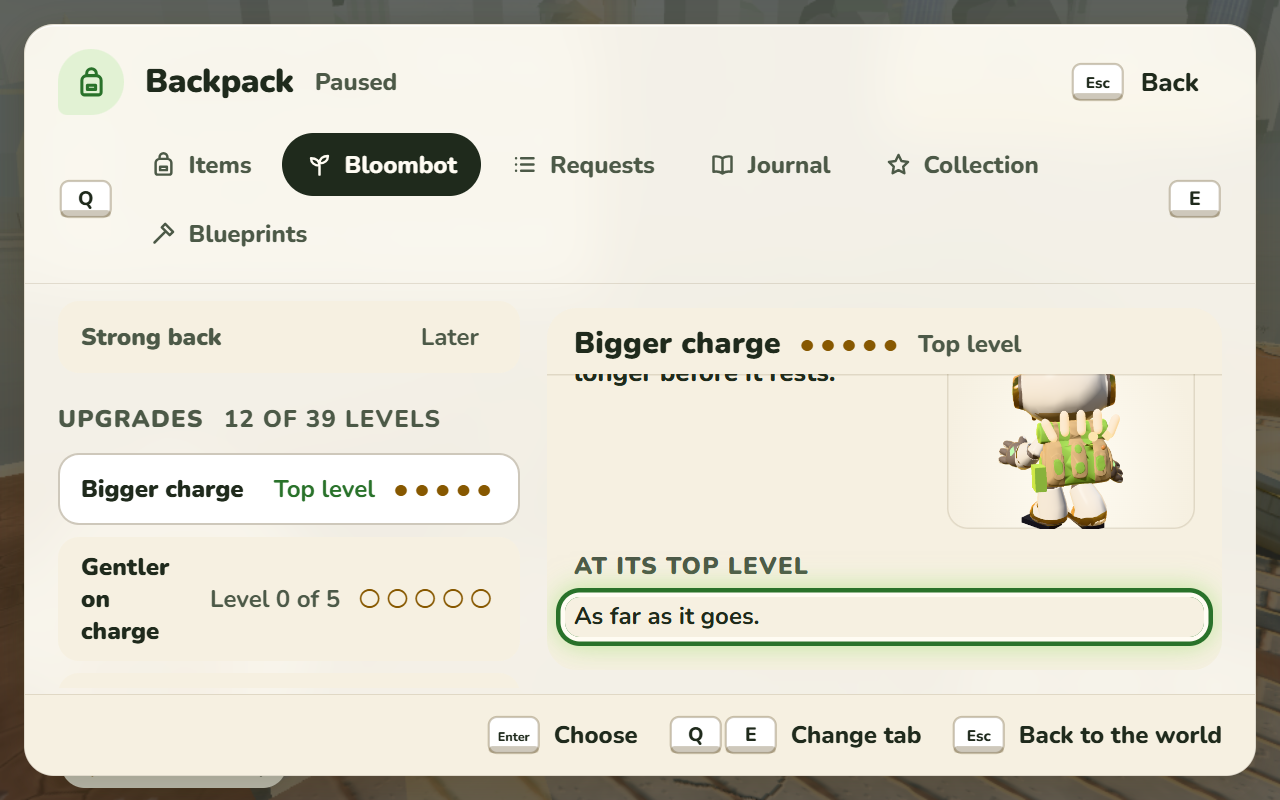
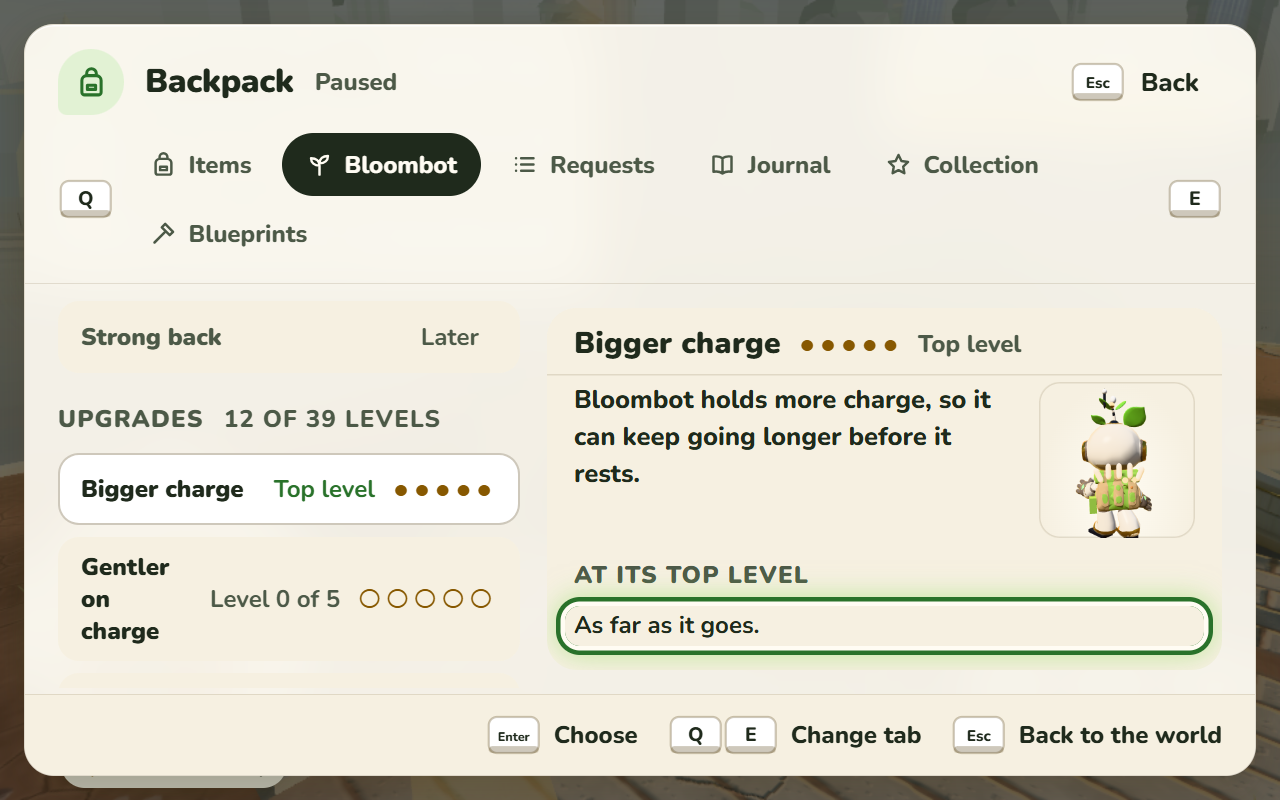
#661: at Deck 150% every row's second heading and its first line show under what it does
In the short layout (the Deck) the view of Bloombot beside what it does is
104px across instead of up to 170, so the second heading (How to get it,
Learned, How to learn it, Where to use it...) and the start of its text show
without a scroll, on rows with Show me where and without.

e2e: every row in focus, at Deck 150%, 1280x720 and 1280x800, shows its
second heading below the head and its first line above the bottom. Shots of a
Learned, a Later and a Next row.

Changed region(s): [[0.4375, 0.6875, 0.9688, 0.8438], [0.4375, 0.4688, 0.9062, 0.6875], [0.5312, 0.9688, 0.5938, 1.0]]

diff --git a/src/ui/backpack.css b/src/ui/backpack.css
@@ -95,6 +95,9 @@ svg.mi-unknown .mi-line { stroke: var(--text-strong); }
   .bb-split > .bb-detail { width: min(460px, 58%); padding-top: 12px; }
   .bb-head { top: -12px; margin-top: -12px; padding-top: 12px; }
   .bb-head .pn-badge { display: none; }
+  /* #661: a smaller view, so the second heading (How to get it, Learned...) and its first lines show under what it
+     does without a scroll */
+  .bb-about.has-view { grid-template-columns: minmax(0, 1fr) 104px; }
 }
 /* a detail too tall to show whole: its last lines are a focus stop (Backpack.fitDetail), ringed when reached */
 .bb-detail .bb-how[tabindex] { border-radius: 10px; padding: 2px 6px; margin: 0 -6px 4px; }
